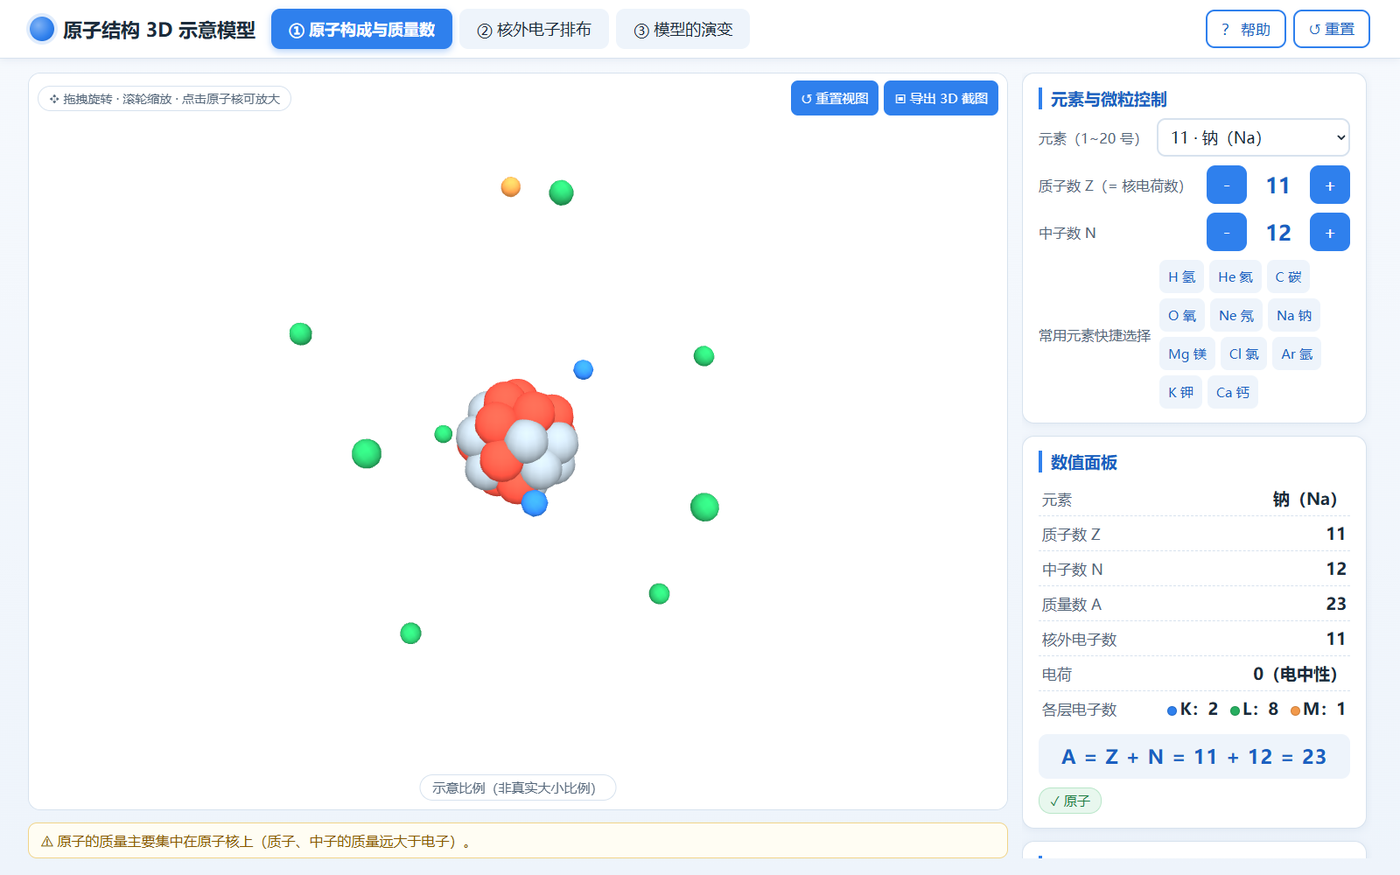
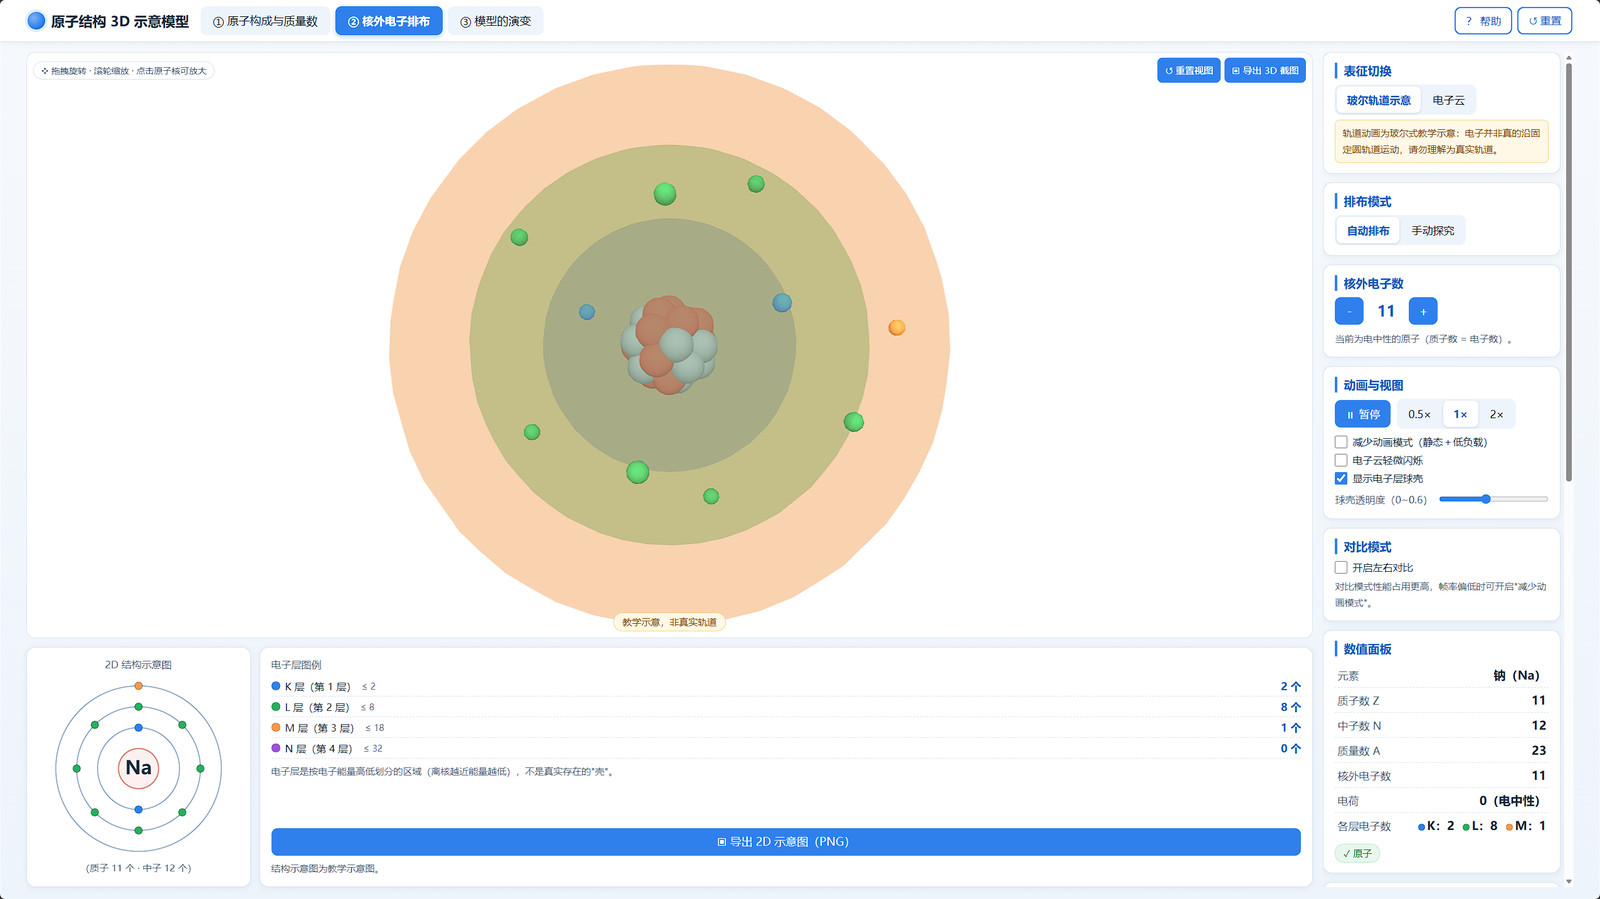
docs: README 首图换用真机截图（替换无头截图）
- docs/images/screenshot-3d-atom.png 换为用户在 Edge 下实拍的页面截图
  （原图 2552x1434，等比缩放至 1600x899）
- 说明文字相应调整，不再断言具体配色

diff --git a/README.md b/README.md
@@ -17,7 +17,7 @@
 
 ![原子构成与质量数：3D 原子、数值面板与实时代入算式](![Uploading image.png…]())
 
-*页签①「原子构成与质量数」：左侧 3D 原子（红＝质子、灰＝中子）可拖拽旋转、点击原子核推近放大；右侧为 Z / N / A 数值面板与 `A = Z + N` 实时代入算式。*
+*页签①「原子构成与质量数」：左侧 3D 原子可拖拽旋转、点击原子核推近放大；右侧为质子数 / 中子数 / 质量数数值面板与 `A = Z + N` 实时代入算式。*
 
 ![核外电子排布：电子云表征与 2D 原子结构示意图](docs/images/screenshot-electron-cloud.png)
 
